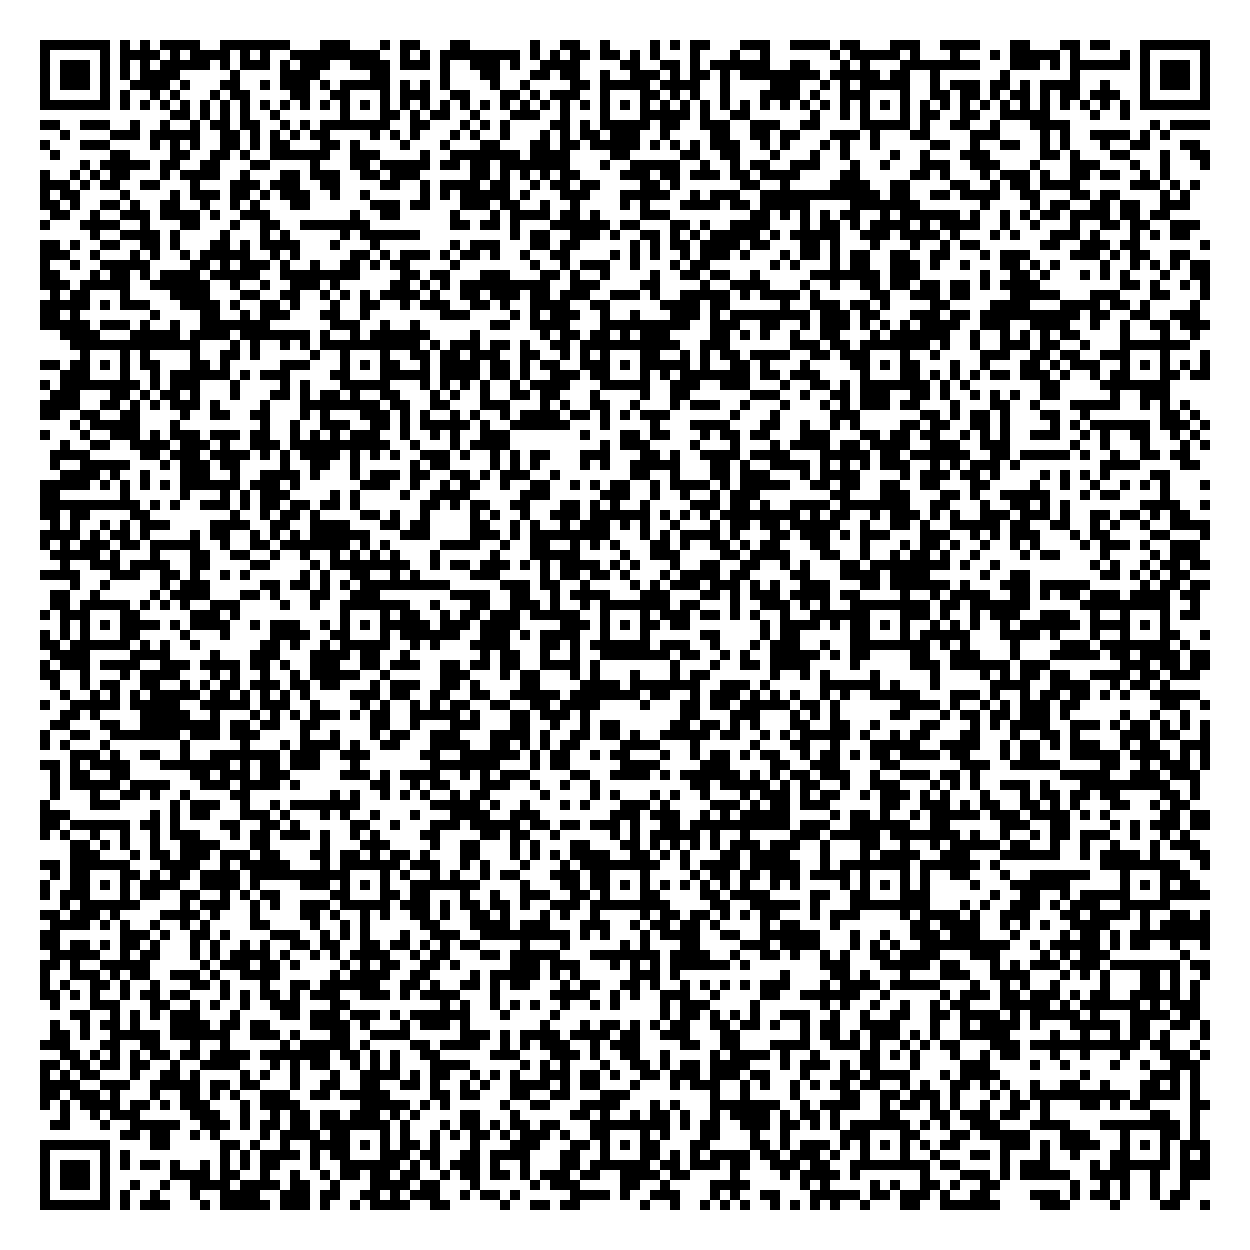
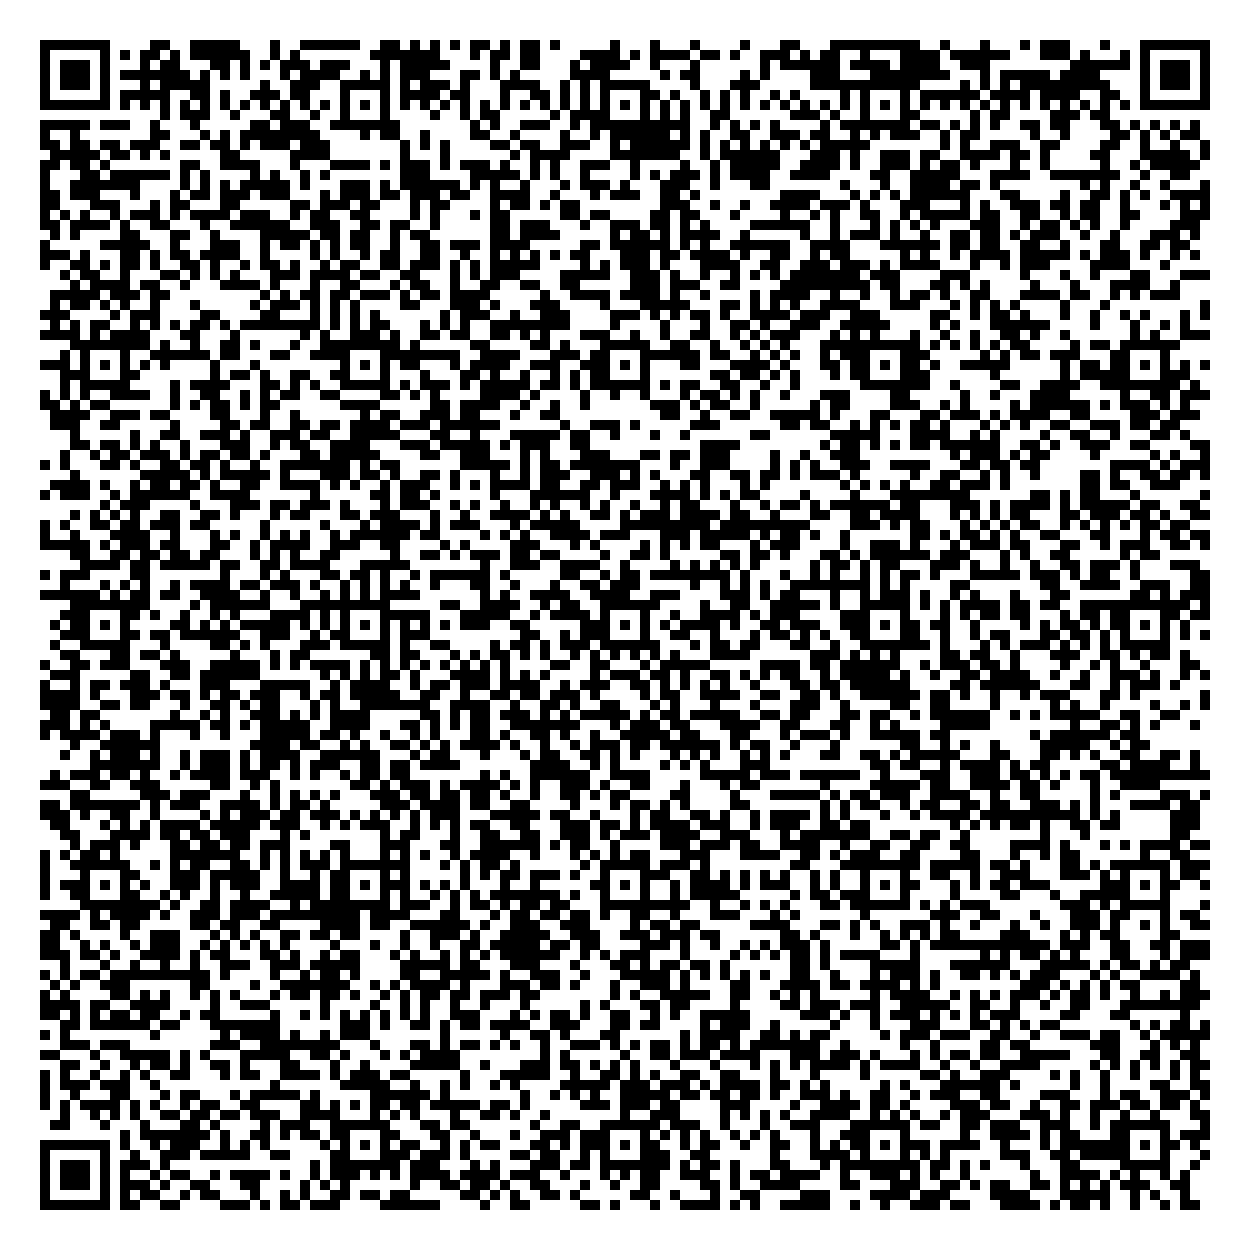
scanning works just hashing is broken in the decryption section

diff --git a/app.py b/app.py
@@ -3,6 +3,7 @@ from utils.database import Database
 from AESalgorithm import Encryption, Decryption
 from utils.qr_code_maker import create_qr_code
 from functools import wraps
+import zlib
 
 app = Flask(__name__)
 app.secret_key = 'your_secret_key'  # Replace with a strong secret key
@@ -46,7 +47,6 @@ def generate():
         recipient = request.form['recipient']
         data = request.form['data']
         public_key = db.get_public_key(recipient)
-        print(public_key)
         encrypted_data = Encryption(data, public_key)
         qr_data = encrypted_data.hex()
         create_qr_code(qr_data)
@@ -76,9 +76,16 @@ def decode_qr():
     try:
         # Read the QR data from the request
         qr_data = request.data
-        print(f"Qr_data: {qr_data}")
+
         if not qr_data:
             return jsonify({'error': 'No QR data provided'}), 400
+
+        # Print received data for debugging
+        print(f"Received QR Data (raw bytes): {qr_data}")
+
+        # Decompress the QR data
+        decompressed_data = zlib.decompress(qr_data)
+        print(f"Decompressed Data: {decompressed_data}")
 
         # Retrieve the username from the session
         username = session.get('username')
@@ -87,9 +94,9 @@ def decode_qr():
 
         # Get the private key for decryption
         private_key = db.get_private_key(username)  # Replace with your method to get the private key
-        print(private_key)
-        # Decrypt the QR data
-        decrypted_data = Decryption(qr_data, private_key)
+
+        # Decrypt the decompressed data
+        decrypted_data = Decryption(decompressed_data, private_key)
 
         return jsonify({'decryptedData': decrypted_data})
     except Exception as e:

diff --git a/AESalgorithm.py b/AESalgorithm.py
@@ -135,14 +135,16 @@ def Encryption(message, pubKey):
     originalKey, encrypted_message = encrypt_aes(message, aes_key)
     print(f"Encrypted Message: {encrypted_message}")
     encryptedKey = RSA.main(originalKey, True, pubKey)
-    print(f"Encrypted AES Key: {encryptedKey}")
-    print(f"Encrypted Data: {encryptedKey + encrypted_message.encode('utf-8')}")
+    print(f"Encrypted AES Key: {encryptedKey.hex()}")
+    print(f"Encrypted Data: {(encryptedKey + encrypted_message.encode('utf-8')).hex()}")
     return encryptedKey + encrypted_message.encode('utf-8')
 
 def Decryption(encrypted_data, privateKey):
-    decrytedKey = RSA.main(encrypted_data[:1024], False, privateKey)
+    print(f"Encrypted Data (key part): {encrypted_data[:2048]}")
+    print(f"Encrypted Data (message part): {encrypted_data[2048:]}")
+    decrytedKey = RSA.main(encrypted_data[:2048], False, privateKey)
     print(f"Decrypted AES Key: {decrytedKey}")
-    encrypted_message = encrypted_data[1024:].decode('utf-8')
+    encrypted_message = encrypted_data[2048:].decode('utf-8')
     print(f"Encrypted Message: {encrypted_message}")
     decrypted_message = decrypt_aes(encrypted_message, decrytedKey)
     print(f"Decrypted Message: {decrypted_message}")
